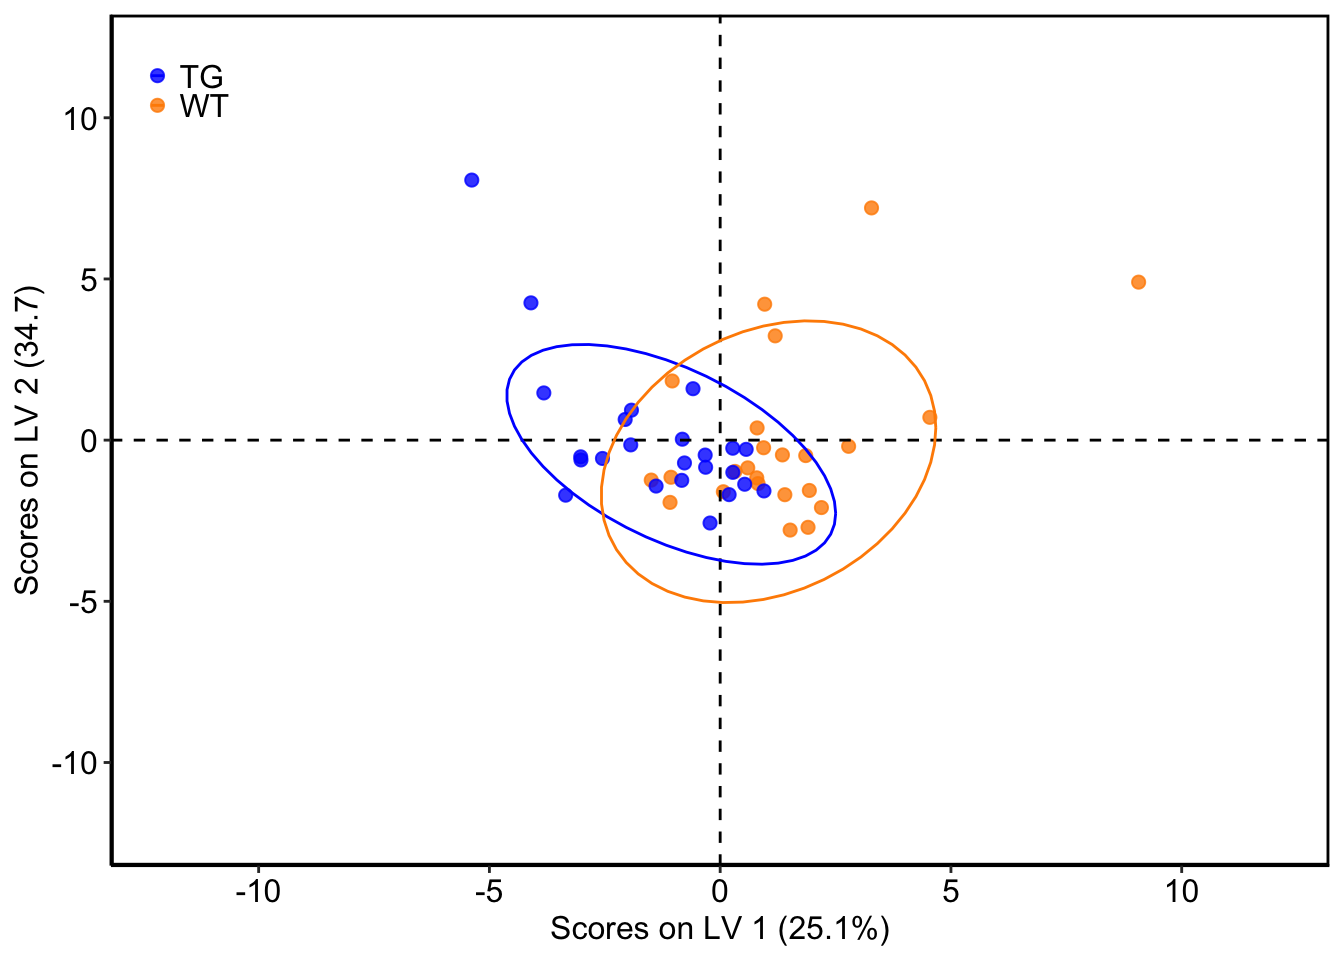
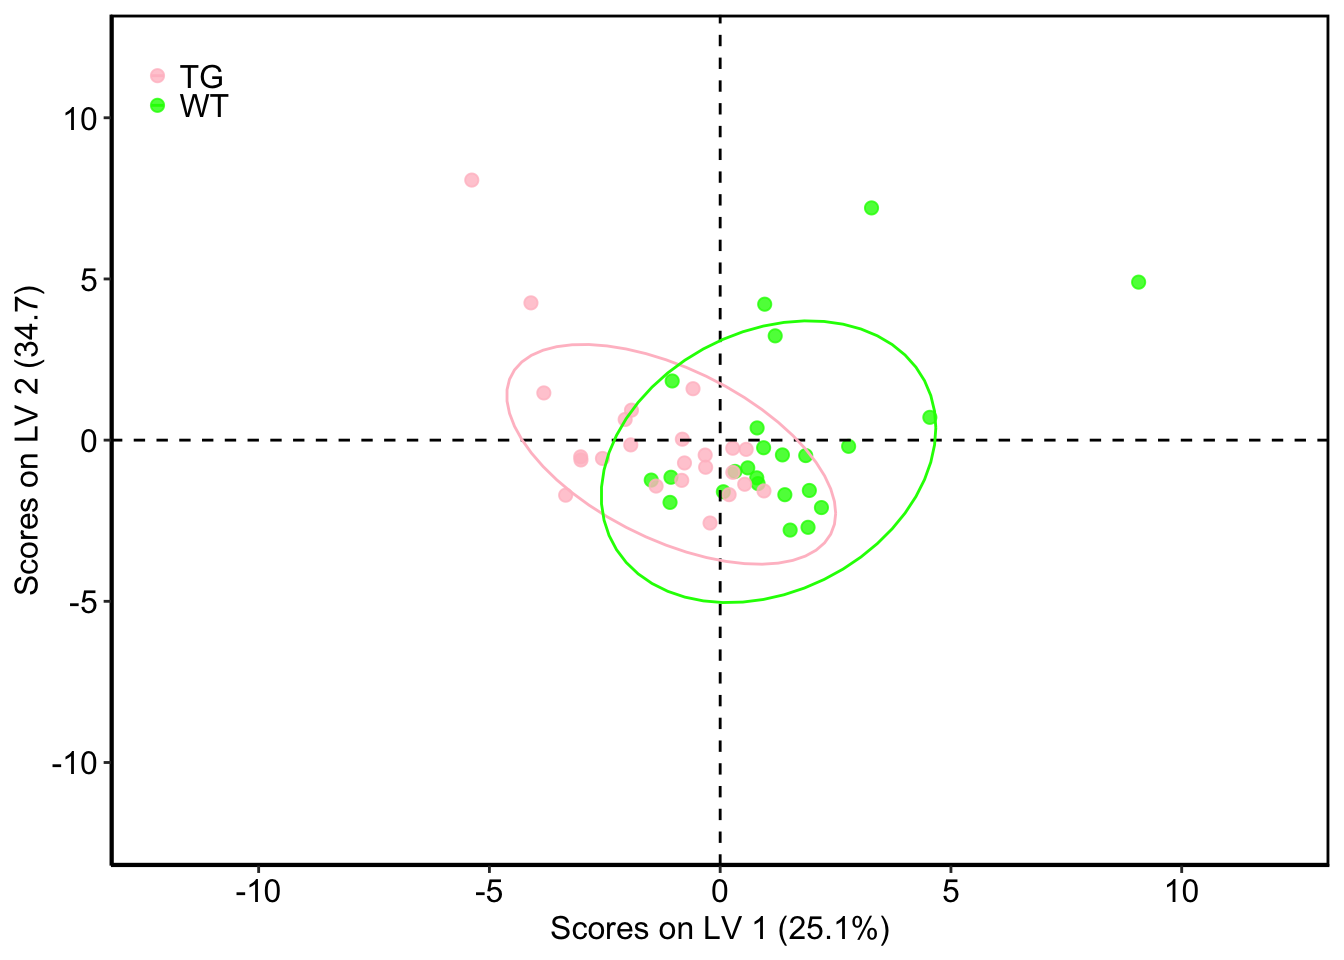
Build site.

diff --git a/docs/first-analysis.html b/docs/first-analysis.html
@@ -504,16 +504,16 @@ This reproducible <a href="http://rmarkdown.rstudio.com">R Markdown</a> analysis
 <div class="panel panel-default">
 <div class="panel-heading">
 <p class="panel-title">
-<a data-toggle="collapse" data-parent="#workflowr-checks" href="#strongRepositoryversionstrongahrefhttpsgithubcomrfleeman95JCtree40fc7e5e79fba4fa6788e060b433f94640954234targetblank40fc7e5a"> <span class="glyphicon glyphicon-ok text-success" aria-hidden="true"></span> <strong>Repository version:</strong> <a href="https://github.com/rfleeman95/JC/tree/40fc7e5e79fba4fa6788e060b433f94640954234" target="_blank">40fc7e5</a> </a>
+<a data-toggle="collapse" data-parent="#workflowr-checks" href="#strongRepositoryversionstrongahrefhttpsgithubcomrfleeman95JCtree5b7ffc00523707582f21d6626710d74c7538cc42targetblank5b7ffc0a"> <span class="glyphicon glyphicon-ok text-success" aria-hidden="true"></span> <strong>Repository version:</strong> <a href="https://github.com/rfleeman95/JC/tree/5b7ffc00523707582f21d6626710d74c7538cc42" target="_blank">5b7ffc0</a> </a>
 </p>
 </div>
[2 lines of base64/hex data omitted]
 <div class="panel-body">
 <p>
 Great! You are using Git for version control. Tracking code development and connecting the code version to the results is critical for reproducibility.
 </p>
 <p>
-The results in this page were generated with repository version <a href="https://github.com/rfleeman95/JC/tree/40fc7e5e79fba4fa6788e060b433f94640954234" target="_blank">40fc7e5</a>. See the <em>Past versions</em> tab to see a history of the changes made to the R Markdown and HTML files.
+The results in this page were generated with repository version <a href="https://github.com/rfleeman95/JC/tree/5b7ffc00523707582f21d6626710d74c7538cc42" target="_blank">5b7ffc0</a>. See the <em>Past versions</em> tab to see a history of the changes made to the R Markdown and HTML files.
 </p>
 <p>
 Note that you need to be careful to ensure that all relevant files for the analysis have been committed to Git prior to generating the results (you can use <code>wflow_publish</code> or <code>wflow_git_commit</code>). workflowr only checks the R Markdown file, but you know if there are other scripts or data files that it depends on. Below is the status of the Git repository when the results were generated:
@@ -559,6 +559,40 @@ Message
 </tr>
 </thead>
 <tbody>
+<tr>
+<td>
+Rmd
+</td>
+<td>
+<a href="https://github.com/rfleeman95/JC/blob/5b7ffc00523707582f21d6626710d74c7538cc42/analysis/first-analysis.Rmd" target="_blank">5b7ffc0</a>
+</td>
+<td>
+rfleeman95
+</td>
+<td>
+2020-08-28
+</td>
+<td>
+Changed colors!
+</td>
+</tr>
+<tr>
+<td>
+html
+</td>
+<td>
+<a href="https://rawcdn.githack.com/rfleeman95/JC/6409a25e529e41d31b3c8f0bf62a41abce9ed3c3/docs/first-analysis.html" target="_blank">6409a25</a>
+</td>
+<td>
+rfleeman95
+</td>
+<td>
+2020-08-28
+</td>
+<td>
+Build site.
+</td>
+</tr>
 <tr>
 <td>
 html
@@ -765,7 +799,7 @@ unique(class)</code></pre>
   geom_vline(xintercept = 0,linetype=&quot;dashed&quot;,color=&quot;black&quot;,size=0.5)+
   xlim(-10,10)+
   ylim(-10,10)+
-  scale_colour_manual(values = c(&quot;blue&quot;,&quot;darkorange&quot;))</code></pre>
+  scale_colour_manual(values = c(&quot;pink&quot;,&quot;green&quot;))</code></pre>
 <pre><code>Warning: Removed 1 rows containing missing values (geom_point).</code></pre>
 <p><img src="figure/first-analysis.Rmd/unnamed-chunk-3-1.png" width="672" style="display: block; margin: auto;" /></p>
 <p>
@@ -988,7 +1022,7 @@ ggplot(Scores_Class,aes(x=LV1,y=o1,col=Class))+
   theme(legend.key.size = unit(0, &#39;line&#39;))+ ##
   theme(legend.justification=c(0,1), legend.position=c(0.02,.98))+
   theme(legend.text=element_text(size=12))+
-  scale_colour_manual(values = c(&quot;blue&quot;,&quot;darkorange&quot;))+ #need to label accordingly
+  scale_colour_manual(values = c(&quot;pink&quot;,&quot;green&quot;))+ #need to label accordingly
   geom_hline(yintercept=0, linetype=&quot;dashed&quot;, 
              color = &quot;black&quot;, size=0.5)+
   geom_vline(xintercept = 0, linetype=&quot;dashed&quot;, 
@@ -1041,7 +1075,7 @@ rfleeman95
 <pre class="r"><code>Load&lt;-getLoadingMN(oplsda)
 Loadsort&lt;-sort(Load,decreasing=TRUE)
 Loading&lt;-t(Load)
-barplot(Loading, col=&quot;grey89&quot;, las=2, ylim=c(-0.2,0.4), ylab=&quot;LV1 (Component) 25.1%&quot;, font.lab=2)
+barplot(Loading, col=&quot;pink&quot;, las=2, ylim=c(-0.2,0.4), ylab=&quot;LV1 (Component) 25.1%&quot;, font.lab=2)
 abline(h=0)</code></pre>
 <p><img src="figure/first-analysis.Rmd/unnamed-chunk-5-3.png" width="672" style="display: block; margin: auto;" /></p>
 <p>
@@ -1083,7 +1117,7 @@ rfleeman95
 </div>
 <pre class="r"><code>VIP&lt;-getVipVn(oplsda)
 VIPsort=sort(VIP,decreasing=TRUE)
-barplot(VIPsort, col=&quot;grey89&quot;, las=2, ylim=c(0,2), main= &quot;VIPs&quot;, cex.main=1.5, ylab=&quot;LV1 (Component) 25.1%&quot;, font.lab=2)
+barplot(VIPsort, col=&quot;pink&quot;, las=2, ylim=c(0,2), main= &quot;VIPs&quot;, cex.main=1.5, ylab=&quot;LV1 (Component) 25.1%&quot;, font.lab=2)
 abline(h=1)
 abline(h=0)</code></pre>
 <p><img src="figure/first-analysis.Rmd/unnamed-chunk-5-4.png" width="672" style="display: block; margin: auto;" /></p>

diff --git a/docs/index.html b/docs/index.html
@@ -364,16 +364,16 @@ This reproducible <a href="http://rmarkdown.rstudio.com">R Markdown</a> analysis
 <div class="panel panel-default">
 <div class="panel-heading">
 <p class="panel-title">
-<a data-toggle="collapse" data-parent="#workflowr-checks" href="#strongRepositoryversionstrongahrefhttpsgithubcomrfleeman95JCtree40fc7e5e79fba4fa6788e060b433f94640954234targetblank40fc7e5a"> <span class="glyphicon glyphicon-ok text-success" aria-hidden="true"></span> <strong>Repository version:</strong> <a href="https://github.com/rfleeman95/JC/tree/40fc7e5e79fba4fa6788e060b433f94640954234" target="_blank">40fc7e5</a> </a>
+<a data-toggle="collapse" data-parent="#workflowr-checks" href="#strongRepositoryversionstrongahrefhttpsgithubcomrfleeman95JCtree5b7ffc00523707582f21d6626710d74c7538cc42targetblank5b7ffc0a"> <span class="glyphicon glyphicon-ok text-success" aria-hidden="true"></span> <strong>Repository version:</strong> <a href="https://github.com/rfleeman95/JC/tree/5b7ffc00523707582f21d6626710d74c7538cc42" target="_blank">5b7ffc0</a> </a>
 </p>
 </div>
[2 lines of base64/hex data omitted]
 <div class="panel-body">
 <p>
 Great! You are using Git for version control. Tracking code development and connecting the code version to the results is critical for reproducibility.
 </p>
 <p>
-The results in this page were generated with repository version <a href="https://github.com/rfleeman95/JC/tree/40fc7e5e79fba4fa6788e060b433f94640954234" target="_blank">40fc7e5</a>. See the <em>Past versions</em> tab to see a history of the changes made to the R Markdown and HTML files.
+The results in this page were generated with repository version <a href="https://github.com/rfleeman95/JC/tree/5b7ffc00523707582f21d6626710d74c7538cc42" target="_blank">5b7ffc0</a>. See the <em>Past versions</em> tab to see a history of the changes made to the R Markdown and HTML files.
 </p>
 <p>
 Note that you need to be careful to ensure that all relevant files for the analysis have been committed to Git prior to generating the results (you can use <code>wflow_publish</code> or <code>wflow_git_commit</code>). workflowr only checks the R Markdown file, but you know if there are other scripts or data files that it depends on. Below is the status of the Git repository when the results were generated:
@@ -419,6 +419,23 @@ Message
 </tr>
 </thead>
 <tbody>
+<tr>
+<td>
+html
+</td>
+<td>
+<a href="https://rawcdn.githack.com/rfleeman95/JC/6409a25e529e41d31b3c8f0bf62a41abce9ed3c3/docs/index.html" target="_blank">6409a25</a>
+</td>
+<td>
+rfleeman95
+</td>
+<td>
+2020-08-28
+</td>
+<td>
+Build site.
+</td>
+</tr>
 <tr>
 <td>
 html
